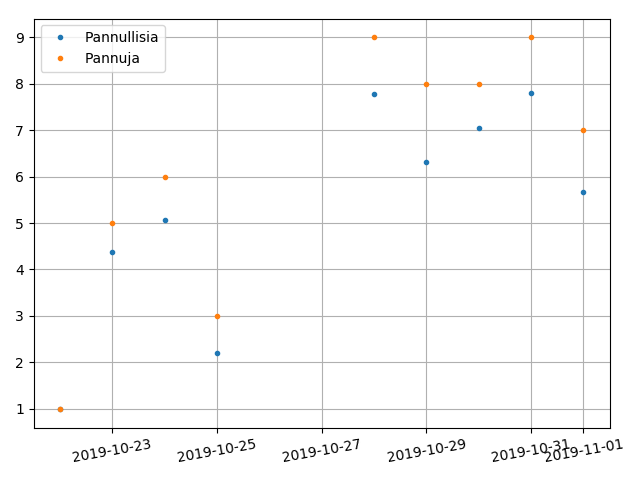
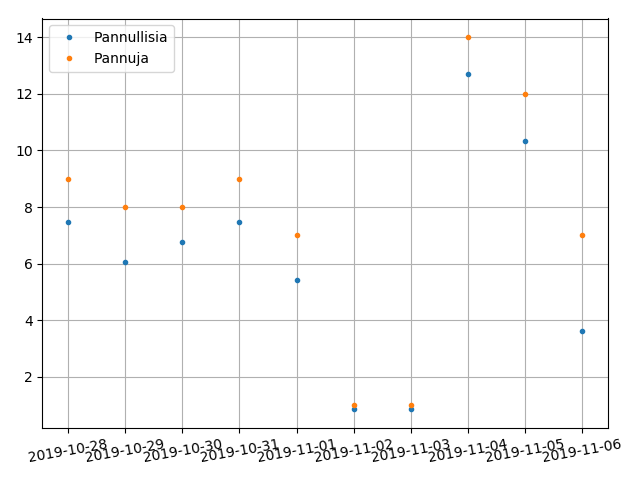
Update Nov 6th

diff --git a/plot_cups.py b/plot_cups.py
@@ -16,6 +16,10 @@ def openfile():
     i = 0
     times = [] #time
     cups = [] #cups
+    #return data after a certain time
+    idx = 0
+    datastart = datetime.strptime("2019-10-28 00:00:01", "%Y-%m-%d %H:%M:%S")
+
     for line in data:
         line = (line.decode('utf-8').strip("\n").split(" "))
         time = int(line[0])
@@ -23,8 +27,11 @@ def openfile():
         time = datetime.fromtimestamp(time)
         times.append(time)
         cups.append(cup)
+        if idx == 0:
+            if time > datastart:
+                idx = i
         i += 1
-    return [times,cups]
+    return [times[idx:],cups[idx:]]
 
 # coffee is brewing if cups increasing for more than 20 measurements
 # coffee is ready when it is brewed and then cups decreases
@@ -62,7 +69,7 @@ def listbrewing(times, cups):
         plt.clf()
         plt.plot(brewtimes,brewcups,"rx")#,"gx")
         bottom, top = plt.ylim()
-        plt.ylim(0, 10)
+        plt.ylim(0, top)
         #plt.xlabel("Aika")
         plt.ylabel("Kuppeja")
         plt.grid(which='major')
@@ -70,8 +77,7 @@ def listbrewing(times, cups):
         plt.tight_layout()
         plt.savefig("pannut.png")
         #plotcombined(times, cups)
-        #plt.show()
-    #print(brewcups)
+
     return [brewtimes, brewcups]
 
 #plot how many pots (and cups) brewed per day
@@ -81,7 +87,7 @@ def plotPotsPerDay(brewtimes, brewcups):
     cups = {}
     pots = {}
     startdate = brewtimes[0].date()
-    maxcups = max(brewcups)
+    maxcups = 10 #max(brewcups)
     for i in range(len(brewtimes)):
         d = brewtimes[i].date()
         if d not in cups.keys():
@@ -112,6 +118,7 @@ def plotPotsPerWeekday(datelist, cuplist, potlist):
     weekdays = ["Monday", "Tuesday", "Wednesday", "Thursday", "Friday",\
                "Saturday", "Sunday"]
     weekdaysFi = ["Ma", "Ti", "Ke", "To", "Pe", "La", "Su"]
+    weekdaysEn = ["Mon", "Tue", "Wed", "Thu", "Fri", "Sat", "Sun"]
     wd = {}
     for d in weekdays:
         wd[d] = 0
@@ -123,7 +130,7 @@ def plotPotsPerWeekday(datelist, cuplist, potlist):
         plotlist.append(wd[d])
     plt.cla()
     plt.clf()
-    plt.bar(weekdaysFi, plotlist)
+    plt.bar(weekdaysEn, plotlist)
     plt.tight_layout()
     plt.savefig("pannutpervkpva.png")
     return 0
@@ -131,7 +138,7 @@ def plotPotsPerWeekday(datelist, cuplist, potlist):
 def plotPotsPerHour(brewtime, brewcups):
     hlist = range(0,24)
     hd = {}
-    maxcups = max(brewcups)
+    maxcups = 10#max(brewcups)
     for h in hlist:
         hd[h] = 0
     for i in range(len(brewtime)):
@@ -158,7 +165,7 @@ def plotcombined(times, cups):
     plt.xlabel("Aika")
     plt.ylabel("Kuppeja")
     plt.savefig("kuva.png")
-    plt.show()
+    #plt.show()
     return 0
 
 #plot last 24h or 3d
